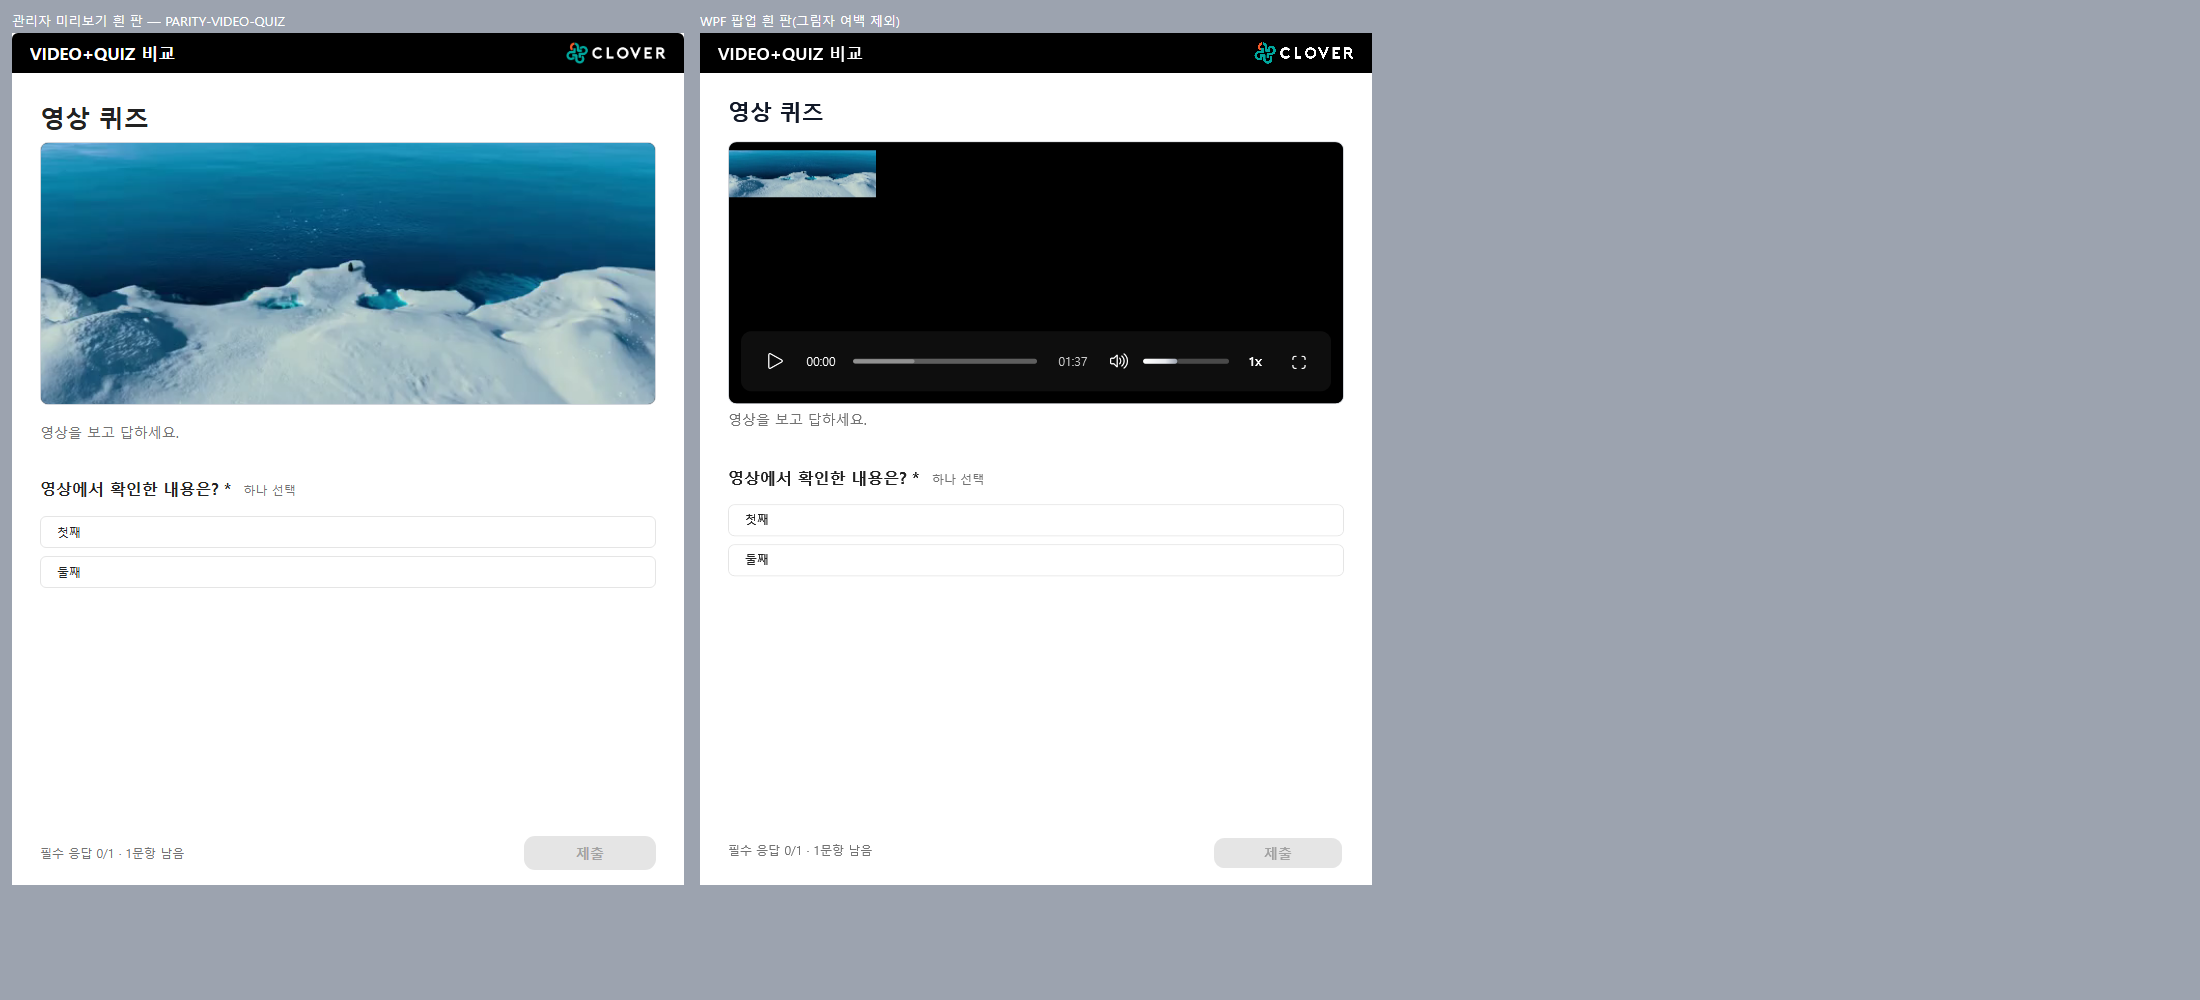
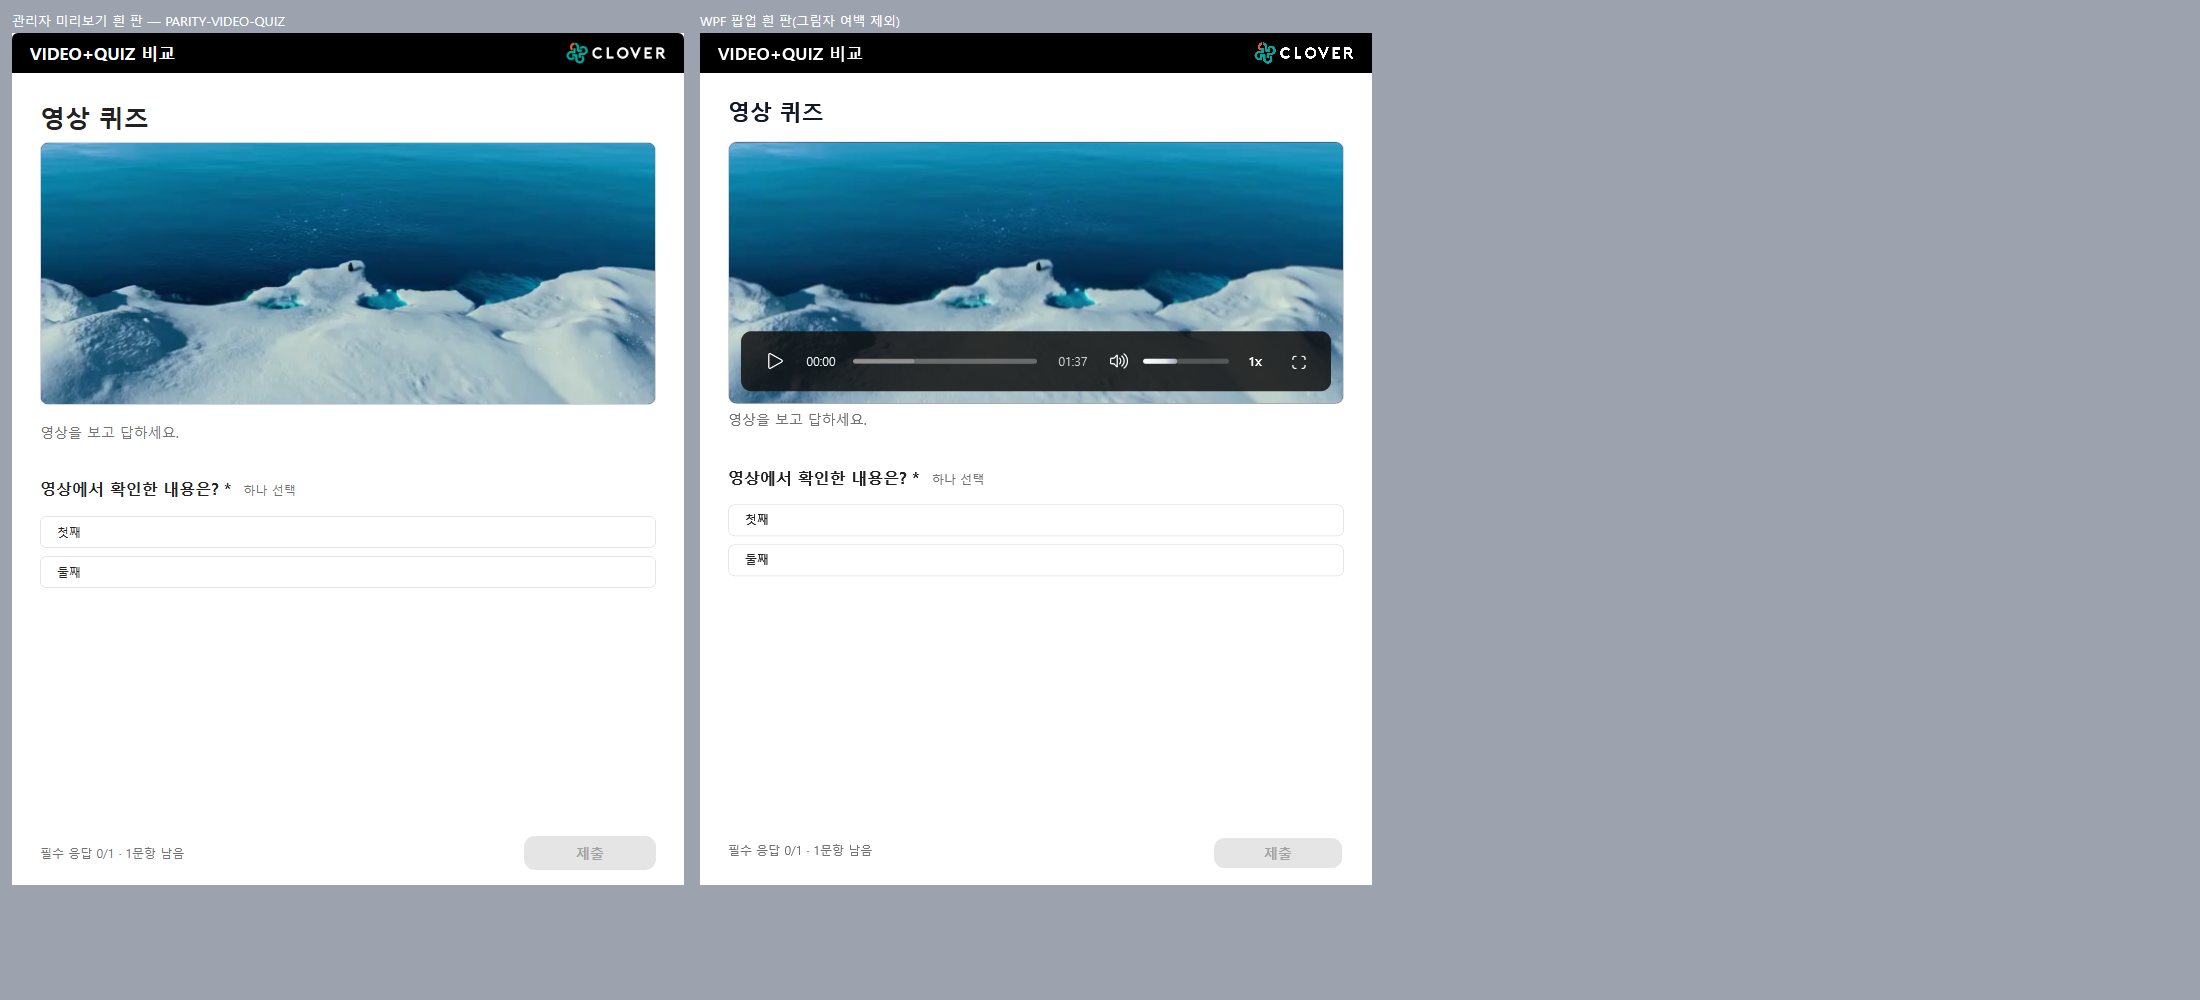
dev: 60_영상합성화면재그리기_수정

Changed region(s): [[0.3091, 0.124, 0.6182, 0.403]]

diff --git a/scripts/PopupParityCapture/Program.cs b/scripts/PopupParityCapture/Program.cs
@@ -39,6 +39,18 @@ internal static class Program
                 Thread.Sleep(100);
             }
             window.UpdateLayout();
+            // 영상 창: WebView2 합성 화면이 새 크기로 다시 그려질 때까지(VideoPopupView.CompositionRefreshDelay 250ms 뒤 실행) 더 기다리고,
+            // 캡처 직전 영상 영역 위쪽 60%의 밝은 픽셀 비율(videoFill)을 남긴다. 작은 프레임이 남으면 낮게 나온다(2026-11-25).
+            var videoHost = FindWebViewHost(window);
+            double? videoFill = null, videoFillEarly = null;
+            if (videoHost != null)
+            {
+                videoFillEarly = VideoFill(videoHost);   // 원래 캡처 시점(표시 후 약 0.5초) 값. 참고용.
+                var waited = System.Diagnostics.Stopwatch.StartNew();
+                while (waited.ElapsedMilliseconds < 1500) { window.Dispatcher.Invoke(() => { }, System.Windows.Threading.DispatcherPriority.ApplicationIdle); Thread.Sleep(20); }
+                window.UpdateLayout();
+                videoFill = VideoFill(videoHost);
+            }
             var root = (FrameworkElement)window.Content;
             // 창 전체(그림자용 바깥 여백 포함)를 그대로 그린 뒤 흰 판(PopupOuterGrid 안쪽)만 잘라 낸다. 배율 변환 없음.
             var outer = (FrameworkElement)window.FindName("PopupOuterGrid");
@@ -54,6 +66,8 @@ internal static class Program
             File.WriteAllText(Path.Combine(args[1], dto.PopupId + ".wpf.json"), JsonSerializer.Serialize(new
             {
                 window = new { width = window.ActualWidth, height = window.ActualHeight },
+                videoFill,
+                videoFillEarly,
                 content = new { width, height, margin = m.Left },
                 choices = Descendants(root).OfType<System.Windows.Controls.Primitives.ToggleButton>()
                     .Select(c => new { name = System.Windows.Automation.AutomationProperties.GetName(c), c.ActualWidth, c.ActualHeight, c.FontSize }),
@@ -106,5 +120,33 @@ internal static class Program
             yield return child;
             foreach (var nested in Descendants(child)) yield return nested;
         }
+    }
+
+    /* 영상 창의 WebView2 합성 컨트롤(보이는 것만). 없으면 null. */
+    private static FrameworkElement? FindWebViewHost(DependencyObject root)
+    {
+        for (int i = 0; i < VisualTreeHelper.GetChildrenCount(root); i++)
+        {
+            var child = VisualTreeHelper.GetChild(root, i);
+            if (child is FrameworkElement element && element.GetType().Name.Contains("WebView2") && element.IsVisible) return element;
+            var found = FindWebViewHost(child);
+            if (found != null) return found;
+        }
+        return null;
+    }
+
+    /* 영상 영역 위쪽 60%(컨트롤바 위)의 밝은 픽셀 비율. 플레이어를 채운 프레임은 0.7 이상, 왼쪽 위 작은 프레임은 0.1 아래. */
+    private static double? VideoFill(FrameworkElement host)
+    {
+        int w = (int)Math.Ceiling(host.ActualWidth), h = (int)Math.Ceiling(host.ActualHeight);
+        if (w <= 0 || h <= 0) return null;
+        var bitmap = new RenderTargetBitmap(w, h, 96, 96, PixelFormats.Pbgra32);
+        bitmap.Render(host);
+        var pixels = new byte[w * h * 4];
+        bitmap.CopyPixels(pixels, w * 4, 0);
+        int lit = 0, total = 0;
+        for (int y = 0; y < h * 6 / 10; y++)
+            for (int x = 0; x < w; x++) { int i = (y * w + x) * 4; total++; if (pixels[i] + pixels[i + 1] + pixels[i + 2] > 60) lit++; }
+        return Math.Round((double)lit / total, 2);
     }
 }

diff --git a/popup-frameWork/Popup/Views/Contents/VideoPopupView.CompositionRefresh.cs b/popup-frameWork/Popup/Views/Contents/VideoPopupView.CompositionRefresh.cs
@@ -1,0 +1,63 @@
+using System;
+using System.Windows;
+using System.Windows.Threading;
+
+namespace Popup.Views.Contents
+{
+    /*
+     * POL-05-01 : 재생 경로
+     * ■ WebView2 합성 화면 다시 그리기(VideoPopupView partial, 2026-11-25)
+     * - in : VideoWebView(WebView2CompositionControl) 크기 변경
+     * - out: 없음 · 크기가 자리 잡은 뒤 컨트롤 너비를 1 DIP 줄였다가 되돌려 합성 화면을 새 크기로 다시 받게 한다.
+     * - 현상: 로드 중 재생 영역 크기가 바뀌면(VIDEO+QUIZ는 메타데이터 수신 후 비율 높이 345 → 261 등) 합성 컨트롤이 바뀌기 전 크기의
+     *   프레임(플레이어 왼쪽 위에 약 1/4 크기)을 그대로 보여 주는 경우가 있다. 브라우저 안 video는 이미 플레이어 크기(예: 614×261)이고,
+     *   영상이 멈춰 있어 새 프레임이 오지 않으므로 재생 전까지 그 작은 프레임이 남는다(비교 캡처 반복 실행에서 VIDEO+QUIZ 6회 중 최대 3회).
+     *   문서 다시 그리기로는 회복되지 않고 컨트롤 크기를 바꾸면 회복되는 것을 확인했다.
+     * - 크기 변경이 끝난 뒤 한 번만 하도록 마지막 변경에서 RefreshDelay 뒤에 실행한다. 되돌리는 중의 크기 변경은 다시 예약하지 않는다.
+     *   재생 상태·시청량·영상 비율 계산과는 관계없다(컨트롤 크기만 잠깐 바뀐다).
+     */
+    public partial class VideoPopupView
+    {
+        internal static readonly TimeSpan CompositionRefreshDelay = TimeSpan.FromMilliseconds(250);
+        private DispatcherTimer? _compositionRefreshTimer;
+        private bool _refreshingComposition;
+
+        /// <summary>테스트용: 합성 화면 다시 그리기를 실행한 횟수.</summary>
+        internal int CompositionRefreshCount { get; private set; }
+
+        private void HookCompositionRefresh()
+        {
+            VideoWebView.SizeChanged += (_, _) => ScheduleCompositionRefresh();
+            Unloaded += (_, _) => _compositionRefreshTimer?.Stop();
+        }
+
+        /* 크기 변경마다 타이머를 다시 시작해 마지막 변경 뒤 한 번만 실행한다. */
+        internal void ScheduleCompositionRefresh()
+        {
+            if (_refreshingComposition) return;
+            if (_compositionRefreshTimer == null)
+            {
+                _compositionRefreshTimer = new DispatcherTimer(DispatcherPriority.Background, Dispatcher) { Interval = CompositionRefreshDelay };
+                _compositionRefreshTimer.Tick += (_, _) => { _compositionRefreshTimer!.Stop(); RefreshCompositionSurface(); };
+            }
+            _compositionRefreshTimer.Stop();
+            _compositionRefreshTimer.Start();
+        }
+
+        private void RefreshCompositionSurface()
+        {
+            double width = VideoWebView.ActualWidth;
+            if (VideoWebView.Visibility != Visibility.Visible || !IsLoaded || !(width > 2)) return;
+            _refreshingComposition = true;
+            CompositionRefreshCount++;
+            VideoWebView.Width = width - 1;
+            VideoWebView.UpdateLayout();
+            // 줄인 크기로 한 번 렌더링된 뒤 되돌리고, 되돌린 크기 변경까지 처리된 뒤 예약을 다시 받는다.
+            Dispatcher.BeginInvoke(DispatcherPriority.Background, new Action(() =>
+            {
+                VideoWebView.Width = double.NaN;
+                Dispatcher.BeginInvoke(DispatcherPriority.ContextIdle, new Action(() => _refreshingComposition = false));
+            }));
+        }
+    }
+}

diff --git a/scripts/PopupWindowTests/Program.cs b/scripts/PopupWindowTests/Program.cs
@@ -329,6 +329,18 @@ internal static class Program
         Check(Math.Abs(smallVideo.Window.MinWidth - 252) < 1 && Math.Abs(smallVideo.Window.ActualWidth - 252) < 1,
             $"[video inset] minimum 300 window becomes a 252 video window ({smallVideo.Window.ActualWidth}, min {smallVideo.Window.MinWidth})");
         ShutdownClose(smallVideo.Window);
+        // WebView2 합성 화면 다시 그리기(2026-11-25): 크기가 자리 잡은 뒤 실행되고, 너비를 원래(자동)로 되돌리며, 스스로 다시 예약하며 반복하지 않는다.
+        var composed = OpenPopup("VIDEO_QUIZ", dto => { dto.SizeMode = "FIXED"; dto.Width = 720; dto.Height = 900; dto.ShowFooter = true; });
+        var web = (FrameworkElement)composed.Video!.FindName("VideoWebView");
+        void Pump(int ms) { var sw = System.Diagnostics.Stopwatch.StartNew(); while (sw.ElapsedMilliseconds < ms) { composed.Window.Dispatcher.Invoke(() => { }, System.Windows.Threading.DispatcherPriority.ApplicationIdle); System.Threading.Thread.Sleep(20); } }
+        Pump(2500);
+        var countProperty = typeof(VideoPopupView).GetProperty("CompositionRefreshCount", BindingFlags.Instance | BindingFlags.NonPublic)!;
+        int Count() => (int)countProperty.GetValue(composed.Video)!;
+        int settled = Count();
+        Pump(1500);
+        Check(web.Visibility != Visibility.Visible || (settled >= 1 && settled <= 4 && Count() == settled && double.IsNaN(web.Width)),
+            $"[video composition] refresh runs after the size settles, restores the width and does not loop (count {settled} → {Count()}, width {web.Width}, visible {web.Visibility})");
+        ShutdownClose(composed.Window);
         // FULLSCREEN은 줄이지 않는다.
         var full = OpenPopup("VIDEO", dto => { dto.SizeMode = "FULLSCREEN"; dto.ShowFooter = true; });
         full.Window.UpdateLayout();

diff --git a/popup-frameWork/Popup/Views/Contents/VideoPopupView.xaml.cs b/popup-frameWork/Popup/Views/Contents/VideoPopupView.xaml.cs
@@ -243,6 +243,7 @@ namespace Popup.Views.Contents
             IReadOnlyList<PopupTextBlockDto>? descriptionBlocks = null)
         {
             InitializeComponent();
+            HookCompositionRefresh();   // POL-05-01 : 크기가 바뀐 뒤 WebView2 합성 화면을 새 크기로 다시 받는다(VideoPopupView.CompositionRefresh.cs).
 
             _showControls = showControls;
             _allowFullScreen = allowFullScreen;

diff --git a/version-history/CHANGELOG.md b/version-history/CHANGELOG.md
@@ -1,5 +1,14 @@
 # 변경 이력
 
+## 2026-11-25-01 — dev: 60_영상합성화면재그리기_수정
+
+- 이유 · 61 레이아웃 가이드 VIDEO+QUIZ 비교 그림(bf9e8d6 커밋본)에서 WPF 영상이 플레이어 왼쪽 위에 작게 그려지고 나머지가 검게 보였고, 같은 데이터 재캡처는 정상이라 원인 확인 필요.
+- 원인 · 작게 보이는 순간에도 브라우저 안 video는 플레이어 크기(614×261)·메타데이터 로드·멈춤 상태로 정상. `WebView2CompositionControl`이 로드 중 크기 변경(비율 높이 345 → 261) 전의 프레임을 유지하고, 멈춘 영상은 새 프레임이 없어 재생 전까지 남음(6초 뒤 동일). 문서 다시 그리기로는 회복되지 않고 컨트롤 크기 변경으로 회복. 이번 영상 창 크기 변경 이전(c69f693 단독 VIDEO 그림)에도 있던 간헐적 현상.
+- 변경 · `VideoPopupView.CompositionRefresh.cs` 추가: `VideoWebView` 크기 변경마다 250ms 디바운스 후 너비를 1 DIP 줄였다 되돌려 합성 화면을 다시 받음(되돌리는 중 재예약 없음, 재생·시청량·비율 계산 무관), 생성자에서 연결. `PopupParityCapture`가 영상 창은 1.5초 더 기다린 뒤 영상 영역 채움(videoFill)·원래 시점 값(videoFillEarly)을 기록, `verify-popup-parity`가 videoFill ≥ 0.5 검사. `PopupWindowTests`에 다시 그리기 실행·너비 복원·반복 없음 검사. 61 가이드 VIDEO·VIDEO+QUIZ 그림 4장 재생성(정상 프레임). TODO60 후속 절·대조 문서 기록.
+- 주요 파일 · `popup-frameWork/Popup/Views/Contents/VideoPopupView.CompositionRefresh.cs`, `VideoPopupView.xaml.cs`, `scripts/PopupParityCapture/Program.cs`, `scripts/verify-popup-parity.cjs`, `scripts/PopupWindowTests/Program.cs`, `docs/design/61_popup_layout_guide/PARITY-VIDEO*.png`, `docs/design/60_VIDEO_QUIZ_원본비율_영역할당_TODO.md`, `docs/reviews/POPUP_PREVIEW_WPF_PARITY.md`.
+- 검증 · 비교 캡처 반복: 수정 전 12회 중 4회 고착(0.07 유지), 수정 후 22회 모두 1초 안에 회복. WPF 빌드 0/0, `PopupWindowTests` 686, 로컬 BehaviorTests 1644, `verify-popup-parity` 56(videoFill VIDEO 0.77·VIDEO+QUIZ 1.0) 통과. 미실행: Windows 실화면 재생 전 화면 확인, 폐쇄망.
+- 상태 · 커밋·원격 반영. 저사양 CPU 영향 측정은 이어서 수행.
+
 ## 2026-11-24-19 — dev: 61_영상창판크기맞춤_수정
 
 - 이유 · VIDEO·VIDEO+QUIZ 창은 저사양 PC 부하 때문에 그림자 없는 불투명 창이라 그림자 여백 24도 없어, 같은 설정 크기에서 판이 다른 유형(창 - 48)보다 48 크게 보였다. 그림자 유무보다 크기 차이가 눈에 띄어 크기만 맞춤.

diff --git a/docs/design/60_VIDEO_QUIZ_원본비율_영역할당_TODO.md b/docs/design/60_VIDEO_QUIZ_원본비율_영역할당_TODO.md
@@ -118,3 +118,10 @@ Trello: https://trello.com/c/3nNo4Qqt
 - [x] 검증: 수정 후 같은 조건 12건 모두 전환 없음. preview-61에 경계 높이 ±(폭 2종) 안정성과 큰 너비 변화 재계산 검사 추가(195건 통과, 수정 전 코드에서는 경계 832~834px에서 30회 전환으로 실패 확인). tsc·eslint, completion-ux-43 82·common-sample-69 63·image-preview 54·survey-rich-text-55 74·guide-render 31 통과.
 - [ ] 폐쇄망 1920×1080 실화면 확인.
 
+## 후속 — 2026-11-25 WebView2 합성 화면 작은 프레임 고착
+
+- 현상: 61 레이아웃 가이드 비교 그림(VIDEO+QUIZ)에서 WPF 영상이 플레이어 왼쪽 위에 약 1/4 크기(146×54)로 그려지고 나머지가 검게 보였다. 같은 데이터 재캡처에서는 정상이라 간헐적이다. 커밋 이력상 단독 VIDEO 그림(c69f693)에도 같은 증상이 있었다.
+- 원인 확인: 작게 보이는 순간에도 브라우저 안은 정상(innerWidth/Height 614×261, video 614×261, 메타데이터 593×252, 멈춤). 문서 다시 그리기로는 회복되지 않고 `WebView2CompositionControl` 크기를 1 바꿨다 되돌리면 회복된다. 로드 중 재생 영역 크기가 바뀔 때(메타데이터 수신 후 비율 높이 345 → 261) 합성 컨트롤이 이전 크기의 프레임을 유지하고, 영상이 멈춰 있어 새 프레임이 오지 않아 재생 전까지 남는다(6초 뒤에도 동일). 실제 팝업에서도 재생 전 화면에 나타날 수 있다.
+- 수정: `VideoPopupView.CompositionRefresh.cs` — `VideoWebView` 크기 변경마다 250ms 디바운스 후 너비를 1 DIP 줄였다 자동으로 되돌려 합성 화면을 새 크기로 다시 받는다(되돌리는 중의 변경은 다시 예약하지 않음). 재생 상태·시청량·비율 계산과 무관.
+- 검증: 비교 캡처 반복에서 수정 전 12회 중 4회 고착(0.07 유지), 수정 후 22회 모두 1초 안에 회복(초기 0.5초 시점 작은 프레임은 2회 관찰). `verify-popup-parity`에 WPF 영상 채움 검사(videoFill ≥ 0.5, 캡처 전 1.5초 대기) 추가 → 56건 통과. `PopupWindowTests` 다시 그리기 실행·너비 복원·반복 없음 검사.
+- 미실행: Windows 실화면에서 재생 전 화면 확인, 저사양 PC 영향(1 DIP 크기 변경 1회의 추가 렌더링)은 별도 CPU 측정.

diff --git a/docs/reviews/POPUP_PREVIEW_WPF_PARITY.md b/docs/reviews/POPUP_PREVIEW_WPF_PARITY.md
@@ -87,3 +87,4 @@
 - 변경: WPF `PopupWindow`가 영상 창(전체 화면 제외)을 사방 `VideoWindowInset` 24씩 줄이고 위치도 작업 영역을 그만큼 안쪽으로 좁혀 정한다. 미리보기는 `previewShadowMargin` 24를 영상 창에도 적용하고 그림자만 `previewWindowShadow`로 끈다. 보이는 판이 다른 유형 흰 판과 같은 크기·자리.
 - 검증: `PopupWindowTests` `CheckVideoWindowInset`(FIXED 3위치·RATIO·720×900·90% 상한·최소 300 → 252·FULLSCREEN 유지, TEXT 흰 판과 화면 좌표 일치), `verify-popup-parity` 54(VIDEO·VIDEO+QUIZ 흰 판 웹=WPF), `verify-popup-preview-61` 294.
 - 보완(2026-11-25): 표시된 창의 재계산(RefreshForDisplayChange)에서 요청 높이 = 최대 높이(900)이면 MaxHeight를 줄이는 순간 WPF가 Height를 낮춰 한 번 더 줄던 문제(900 → 804)를 요청값을 먼저 읽도록 수정. 비교 데이터는 원래 높이 900 유지.
+- 영상 표시(2026-11-25): WPF 비교 캡처가 영상 창이면 1.5초 더 기다린 뒤 영상 영역 채움(videoFill)을 기록하고 0.5 이상을 검사한다. WebView2 합성 화면이 작은 프레임으로 고착되던 문제는 TODO60 후속(`VideoPopupView.CompositionRefresh.cs`)으로 수정. 가이드 VIDEO·VIDEO+QUIZ 그림 재생성.
